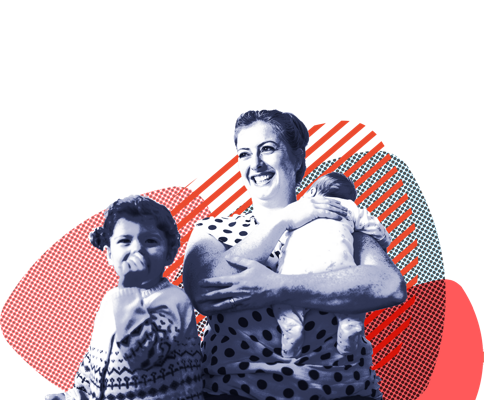
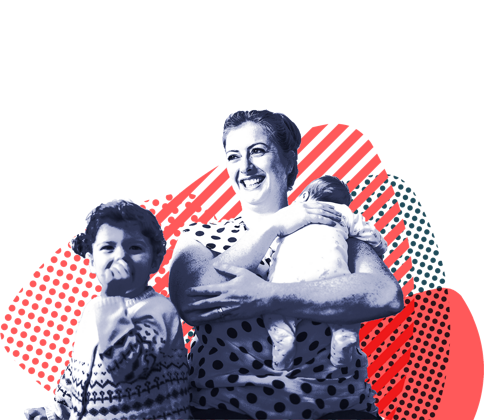
new SCVO homepage

diff --git a/src/main.scss b/src/main.scss
@@ -43,7 +43,7 @@ $blue-color-light-var: f4fbfc;
 $blue-color-dark: #6f9dae;
 $purple-color: #C0B5DA;
 $green-color: #AFD5A6;
-$yellow-color: #FFDB02;
+$yellow-color: #F9DA18;
 $pink-color: #FEB3B4;
 $orange-color: #F8AB23;
 
@@ -89,6 +89,10 @@ $fast-transition-speed: 0.12s;
     left: 0;
     height: 100%;
   }
+}
+
+.s-rounded {
+  border-radius: 0.1rem;
 }
 
 ::-moz-selection {
@@ -628,6 +632,9 @@ a:visited {
   transition: background-size $slow-transition-speed, color $slow-transition-speed, border $slow-transition-speed, background-color $slow-transition-speed;
   // transition-timing-function: ease-in-out;
 }
+a .hover-primary {
+  transition: color $slow-transition-speed;
+}
 h1 a:link,
 h1 a:visited,
 .h1 a:link,
@@ -663,6 +670,7 @@ footer a:link,
 footer a:visited {
   color: white;
 }
+a:hover .hover-primary,
 h1 a:hover,
 .h1 a:hover,
 h2 a:hover,
@@ -894,7 +902,8 @@ footer a {
   position: absolute;
   top: 0;
   left: 0;
-  background-image: linear-gradient(100deg, $secondary-color, transparent, $primary-color);
+  // background-image: linear-gradient(100deg, $secondary-color, transparent, $primary-color);
+  background-image: none;
   opacity: 0.3333;
   z-index: 2;
   -webkit-transition: $slow-transition-speed ease-in-out;
@@ -2286,6 +2295,11 @@ header {
   .form-group .form-select,
   .input-group .form-select {
     border-color: $primary-color;
+  }
+  .btn.btn-primary.btn-cta {
+    background-color: $yellow-color;
+    border-color: $yellow-color;
+    color: $secondary-color;
   }
 }
 .input-group.input-inline {
